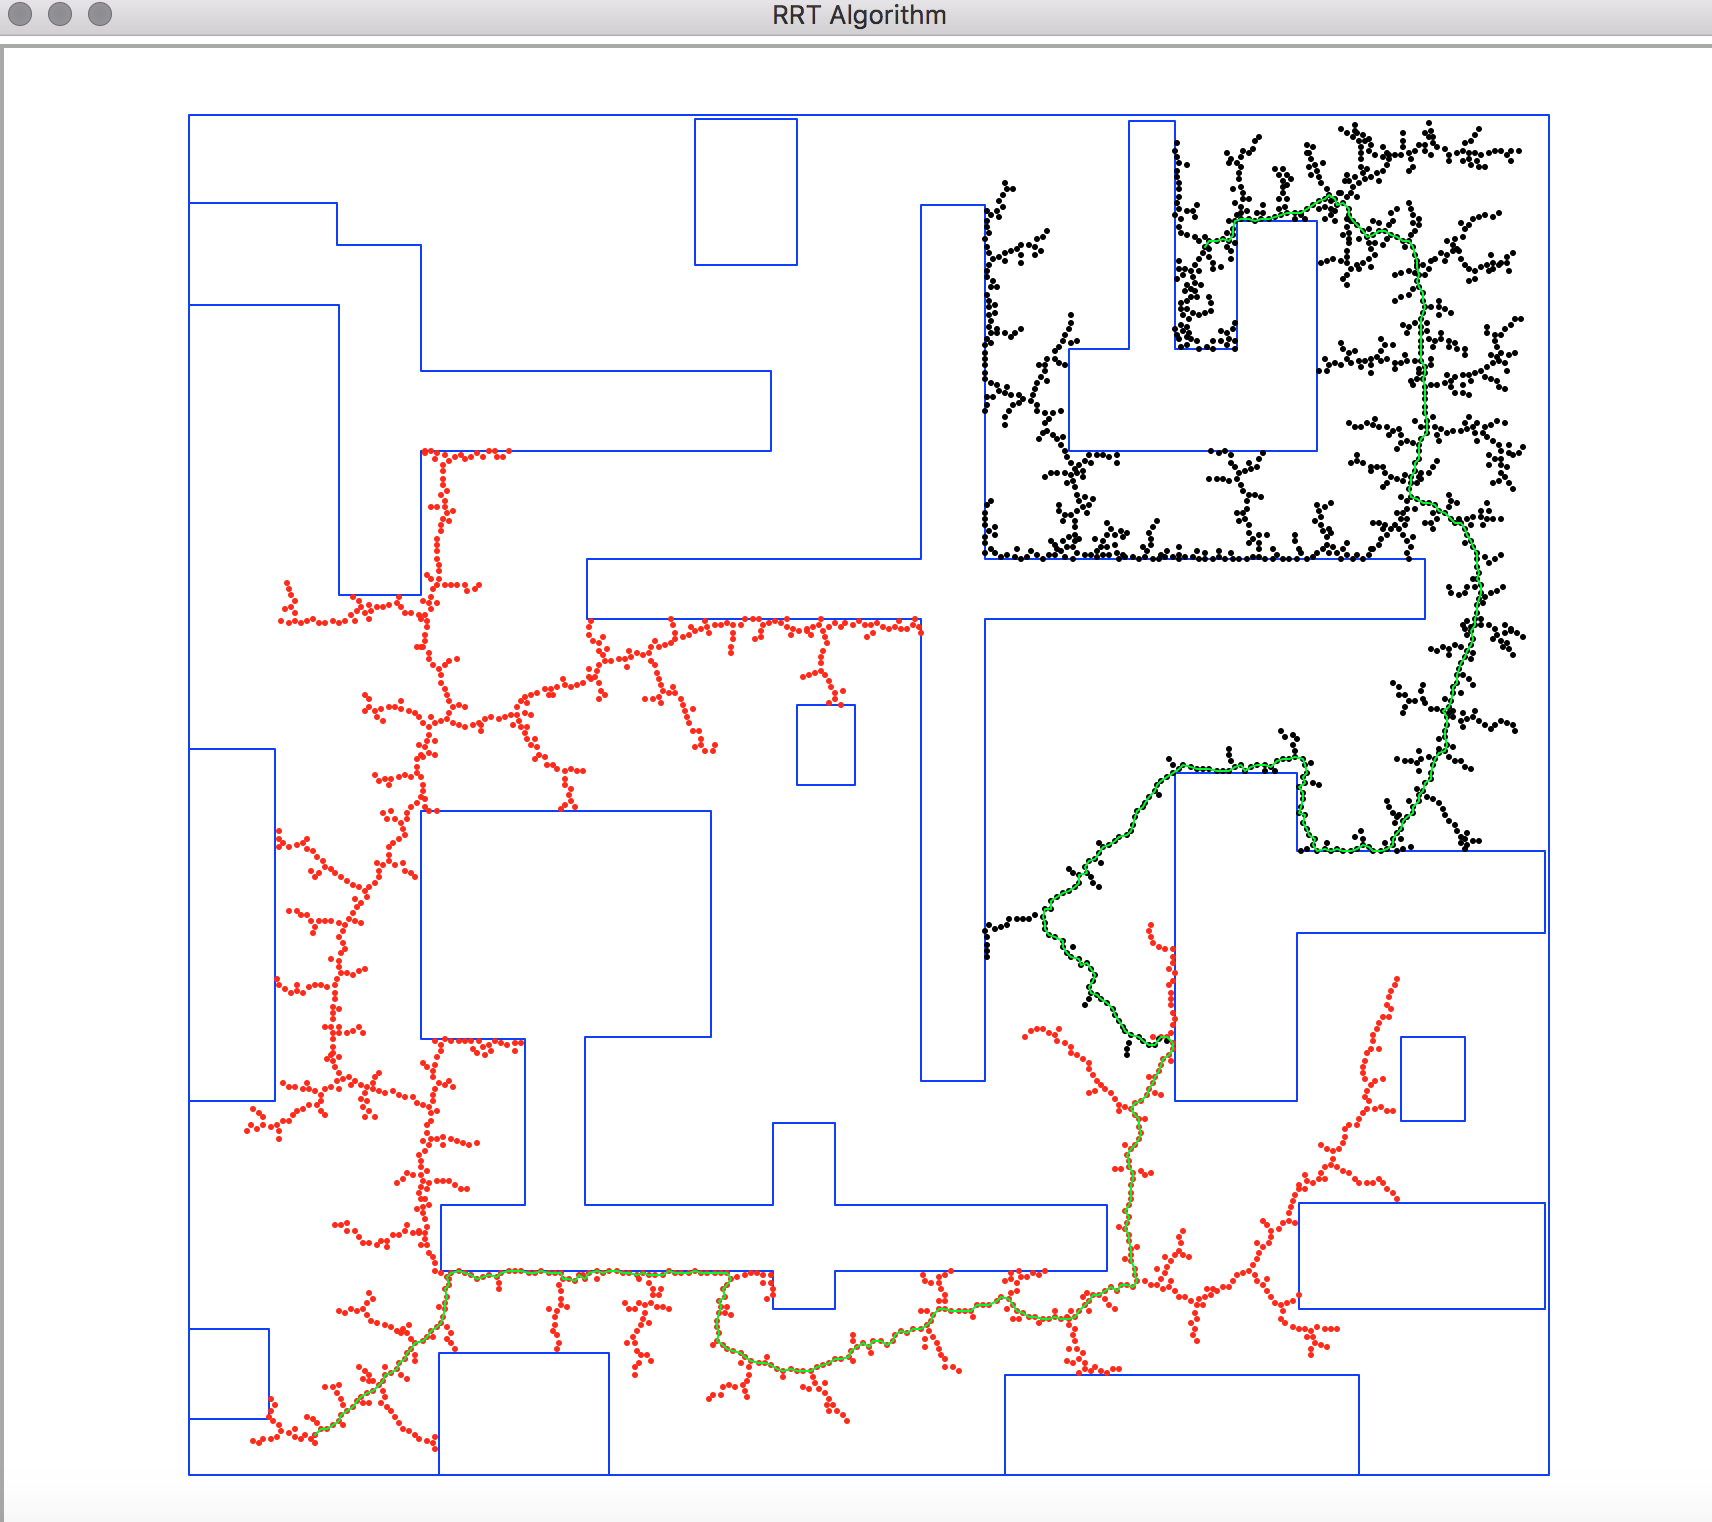
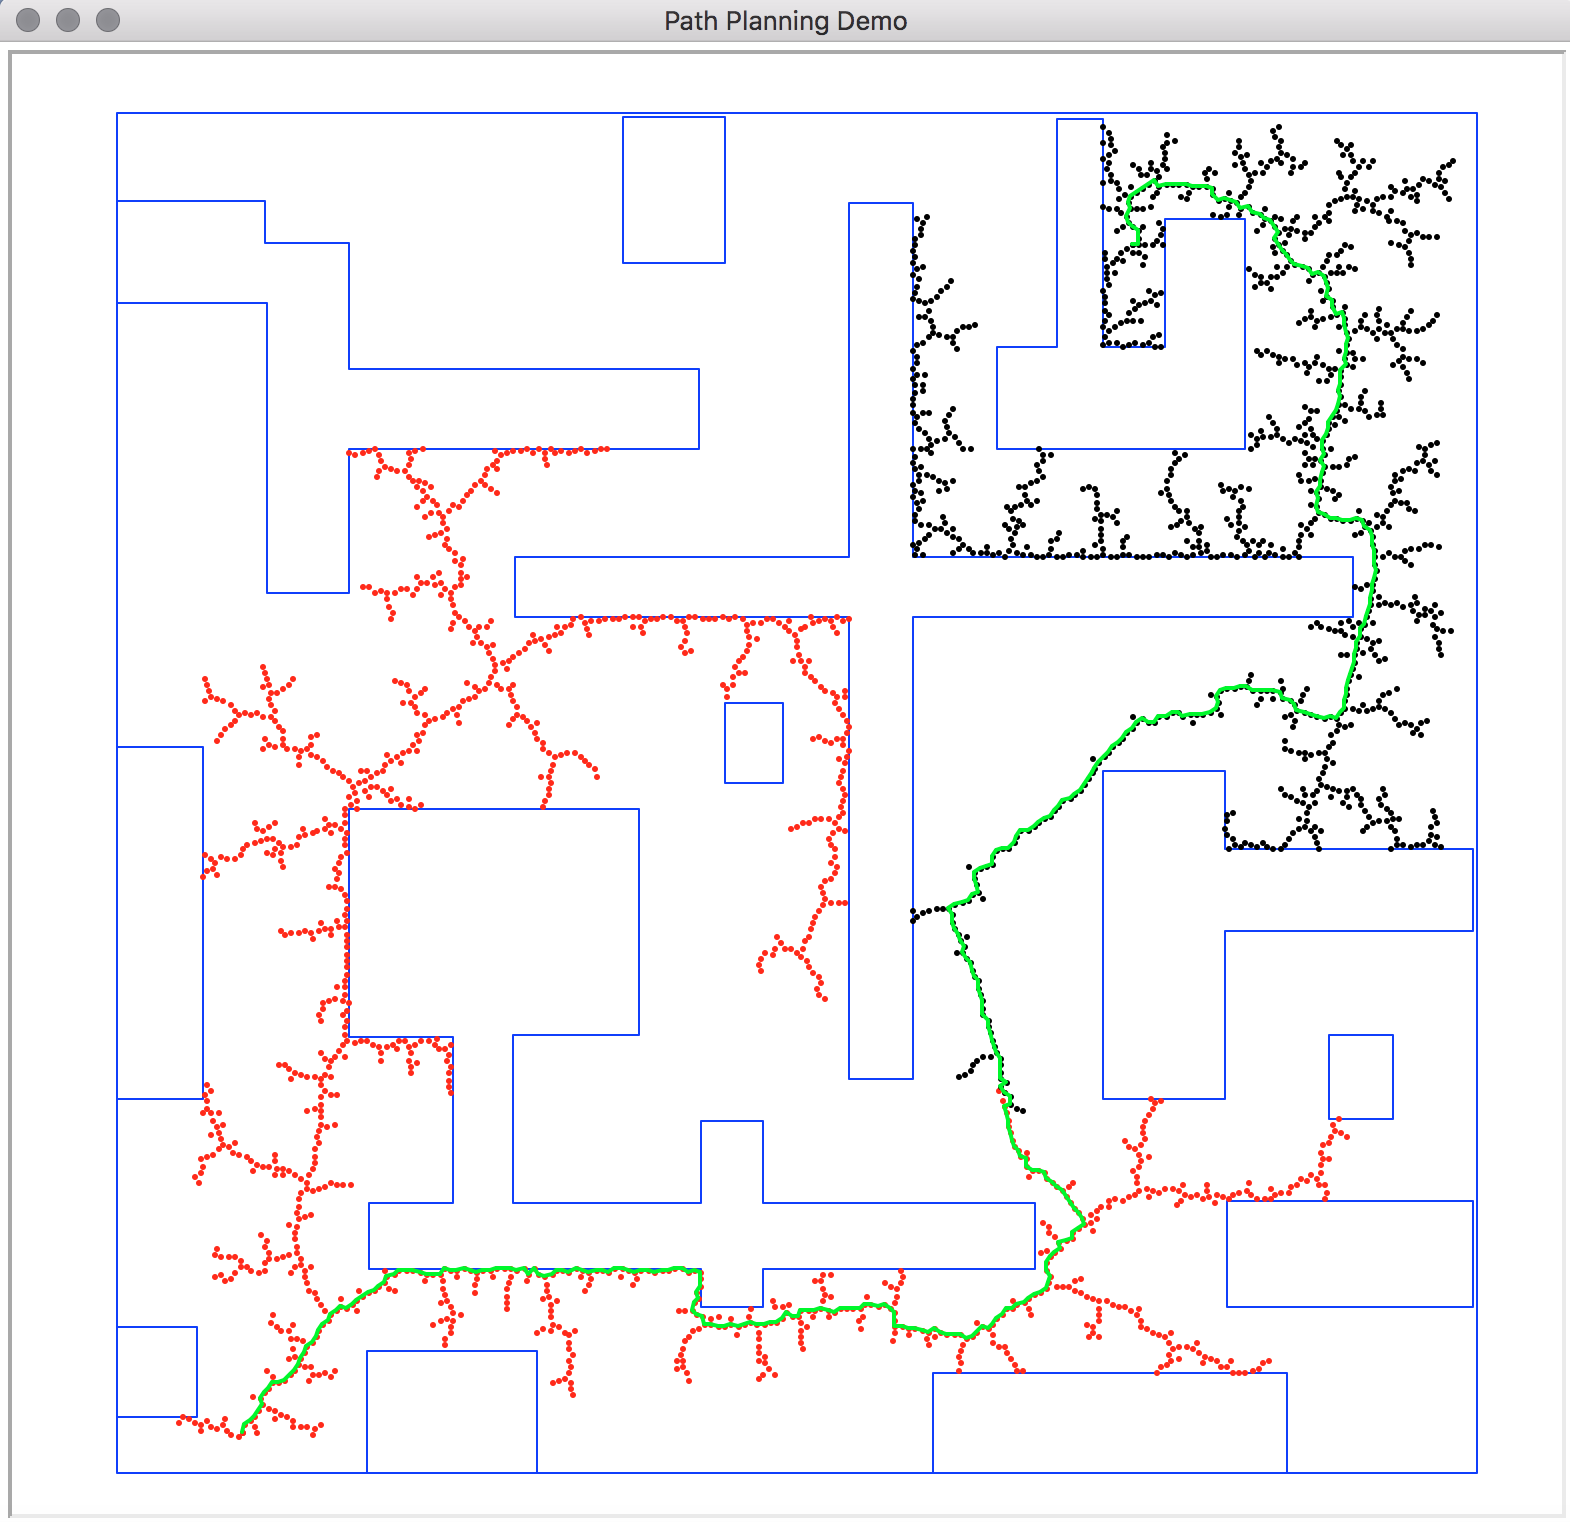
added vgraph algorithm

diff --git a/vgraph.py b/vgraph.py
@@ -1,0 +1,143 @@
+import sys, math
+from common import *
+from drawing import *
+from graph_search import *
+
+EPS = 0.05
+
+class VisibilityGraph:
+
+    def __init__(self, world_size, start, goal, obstacles, robot_size, ref_idx):
+        self.world_size = world_size
+        self.start = start
+        self.goal = goal
+        self.obstacles = obstacles
+        self.robot_size = robot_size
+        self.ref_idx = ref_idx
+        self.init_config = self.get_robot_config(self.start)
+        self.end_config = self.get_robot_config(self.goal)
+        ref_offsets = self.get_ref_offsets()
+        self.grown_obstacles = self.grow_obstacles(ref_offsets)
+        self.obstacle_edges = get_obstacle_edges(self.grown_obstacles)
+
+    def get_robot_config(self, center_point):
+        w, h = self.robot_size[0], self.robot_size[1]
+        cx, cy = center_point[0], center_point[1]
+        t = math.radians(get_orientation(self.start, self.goal))
+        vs = [(cx-h/2, cy-w/2), (cx-h/2, cy+w/2), (cx+h/2, cy+w/2), (cx+h/2, cy-w/2)]
+        # map to origin
+        tmp = map(lambda v: (v[0] - cx, v[1] - cy), vs)
+        # rotate
+        rot = map(lambda v: (v[0]*math.cos(t)-v[1]*math.sin(t), v[0]*math.sin(t)+v[1]*math.cos(t)), tmp)
+        # map back
+        vertices = map(lambda v: (v[0] + cx, v[1] + cy), rot)
+        return vertices
+
+    def get_ref_offsets(self):
+        ref_pt = self.init_config[self.ref_idx]
+        offsets = []
+        for i in range(len(self.init_config)):
+            if i != self.ref_idx:
+                cur_pt = self.init_config[i]
+                # reflect about x-axis
+                new_pt_x = cur_pt[0] + (ref_pt[0] - cur_pt[0]) * 2
+                # reflect about y-axis
+                new_pt_y = cur_pt[1] + (ref_pt[1] - cur_pt[1]) * 2
+                # calculate offset
+                offsets.append((new_pt_x - ref_pt[0], new_pt_y - ref_pt[1]))
+        return offsets
+
+    def grow_obstacles(self, ref_offsets):
+        new_obstacles = []
+        for obstacle in self.obstacles:
+            new_vertices = []
+            for v in obstacle:
+                for offset in ref_offsets:
+                    new_vertices.append((v[0]+offset[0], v[1]+offset[1]))
+                new_vertices.append((v[0], v[1]))
+            new_obstacles.append(new_vertices)
+        
+        # find convex hull of each set of vertices
+        chs = []
+        for points in new_obstacles:
+            points = sorted(points)
+            # build lower hull 
+            lower = []
+            for p in points:
+                while len(lower) >= 2 and not ccw(lower[-2], lower[-1], p):
+                    lower.pop()
+                lower.append(p)
+            # build upper hull
+            upper = []
+            for p in reversed(points):
+                while len(upper) >= 2 and not ccw(upper[-2], upper[-1], p):
+                    upper.pop()
+                upper.append(p)
+            temp_ch = lower[:-1] + upper[:-1]
+            # clean convex hull to find charateristic points
+            for p in temp_ch:
+                for q in temp_ch:
+                    for r in temp_ch:
+                        if p == q or p == r or q == r:
+                            pass
+                        else:
+                            if abs(get_distance(p, r) - (get_distance(p, q) + get_distance(q, r))) < EPS:
+                                if q in temp_ch:
+                                    temp_ch.remove(q)
+            chs.append(temp_ch)
+        return chs
+
+    def get_all_edges(self):
+        all_edges = []
+        for ch1 in self.grown_obstacles:
+            for pt in ch1:
+                all_edges.append((self.init_config[self.ref_idx], pt))
+                all_edges.append((pt, self.end_config[self.ref_idx]))
+            for ch2 in self.grown_obstacles:
+                if ch1 != ch2:
+                    for p1 in ch1:
+                        for p2 in ch2:
+                            all_edges.append((p1, p2))
+        return all_edges
+
+    def get_visible_edges(self):
+        visible_edges = []
+        for edge in self.get_all_edges():
+            to_add = True
+            for obstacle_edge in self.obstacle_edges:
+                if intersect(edge, obstacle_edge):
+                    to_add = False
+                    break
+            if to_add:
+                visible_edges.append(edge)
+        return visible_edges
+
+def main():
+
+    if len(sys.argv) != 5:
+        print "Usage: python vgraph.py map_file robot_width robot_length ref_idx"
+        exit(0)
+
+    map_file = sys.argv[1]
+    robot_size = (float(sys.argv[2]), float(sys.argv[3]))
+    ref_idx = int(sys.argv[4])
+
+    dts = DrawingTools(map_file)
+    world_size, start, goal, obstacles = dts.get_map_info()
+    vgraph = VisibilityGraph(world_size, start, goal, obstacles, robot_size, ref_idx)
+    start_pt, goal_pt = vgraph.init_config[ref_idx], vgraph.end_config[ref_idx]
+    visible_edges = vgraph.get_visible_edges()
+    g = Graph(visible_edges+vgraph.obstacle_edges)
+    path, cost = g.dijkstra(start_pt, goal_pt)
+    print 'Cost: ' + str(cost)
+
+    dts.draw_map()
+    dts.draw_obstacles(vgraph.grown_obstacles, RED)
+    dts.draw_point(start_pt, RED)
+    dts.draw_point(goal_pt, BLACK)
+    dts.draw_edges(visible_edges, PURPLE)
+    dts.draw_path(path, GREEN, PATH_WIDTH)
+    dts.finished_drawing()
+
+if __name__ == "__main__": 
+    main()

diff --git a/rrt.py b/rrt.py
@@ -4,7 +4,7 @@ from common import *
 from graph_search import *
 
 MAX_SAMPLE = 50
-CONNECT_STEP = 30
+CONNECT_STEP = 10
 
 class RRT:
 
@@ -81,15 +81,12 @@ class RRT:
             return new_node, new_edge
         return None, None
 
-    def get_min_distance(self, tree1, tree2):
-        min_dist = get_distance(tree1[0], tree2[0])
-        new_edge = None
-        for n1 in tree1:
-            for n2 in tree2:
-                if not self.intersect_obstacle_edge((n1, n2)) and get_distance(n1, n2) < min_dist:
-                    new_edge = (n1, n2)
-                    min_dist = get_distance(n1, n2)
-        return min_dist, new_edge
+    def connect(self, tree1, tree2):
+        for n1 in tree1[len(tree1)-CONNECT_STEP*2:]:
+            for n2 in tree2[len(tree2)-CONNECT_STEP*2:]:
+                if not self.intersect_obstacle_edge((n1, n2)) and get_distance(n1, n2) <= self.step_size:
+                    return (n1, n2)
+        return None
 
     def generate_trees(self):
 
@@ -132,12 +129,12 @@ class RRT:
             # cannot grow either tree
             if stuck1 and stuck2:
                 print "Stuck..."
-                break
+                return tree1, tree2, None
 
             # connect two trees
             if (i != 0) and (i % CONNECT_STEP == 0):
-                dist, new_edge = self.get_min_distance(tree1, tree2)
-                if new_edge != None and dist < self.step_size:
+                new_edge = self.connect(tree1, tree2)
+                if new_edge != None:
                     edges.append(new_edge)
                     print "trees connnected..."
                     break
@@ -161,14 +158,18 @@ def main():
     world_size, start, goal, obstacles = dts.get_map_info()
     rrt_planner = RRT(world_size, start, goal, obstacles, num_iter, step_size, bias_step, eps)
     tree1, tree2, edges = rrt_planner.generate_trees()
-    g = Graph(edges)
-    path, cost = g.dijkstra(start, goal)
-    print 'Cost: ' + str(cost)
+    if edges:
+        g = Graph(edges)
+        path, cost = g.dijkstra(start, goal)
+        print 'Cost: ' + str(cost)
 
     dts.draw_map()
-    dts.draw_nodes(tree1, DOT_COLOR1)
-    dts.draw_nodes(tree2, DOT_COLOR2)
-    dts.draw_path(path, PATH_COLOR)
+    dts.draw_point(start, RED)
+    dts.draw_point(goal, BLACK)
+    dts.draw_nodes(tree1, RED)
+    dts.draw_nodes(tree2, BLACK)
+    if edges:
+        dts.draw_path(path, GREEN, PATH_WIDTH)
     dts.finished_drawing()
 
 if __name__ == "__main__": 

diff --git a/drawing.py b/drawing.py
@@ -1,10 +1,12 @@
 import turtle
 
-OBSTACLE_COLOR = 'blue'
-DOT_COLOR1 = 'red'
-DOT_COLOR2 = 'black'
-PATH_COLOR = 'green'
+RED = 'red'
+GREEN = 'green'
+BLUE = 'blue'
+BLACK = 'black'
+PURPLE = 'purple'
 RADIUS = 3
+PATH_WIDTH = 2
 
 class DrawingTools:
 
@@ -51,11 +53,8 @@ class DrawingTools:
         return self.world_size, self.start_pos, self.goal_pos, self.obstacles
 
     def draw_map(self):
-        self.draw_boundaries(OBSTACLE_COLOR)
-        for obstacle in self.obstacles:
-            self.draw_polygon(obstacle, OBSTACLE_COLOR)
-        self.draw_point(self.start_pos, DOT_COLOR1)
-        self.draw_point(self.goal_pos, DOT_COLOR2)
+        self.draw_boundaries(BLUE)
+        self.draw_obstacles(self.obstacles, BLUE)
 
     def draw_boundaries(self, color):
         x, y = self.world_size[0], self.world_size[1]
@@ -68,6 +67,10 @@ class DrawingTools:
         self.turtle.goto(0, y)
         self.turtle.goto(0, 0)
         self.turtle.penup()
+
+    def draw_obstacles(self, obstacles, color):
+        for obstacle in obstacles:
+            self.draw_polygon(obstacle, color)
 
     def draw_polygon(self, vertices, color):
         self.turtle.pencolor(color)
@@ -97,8 +100,9 @@ class DrawingTools:
             self.turtle.goto(edge[1])
             self.turtle.penup()
 
-    def draw_path(self, path, color):
+    def draw_path(self, path, color, width=None):
         self.turtle.pencolor(color)
+        self.turtle.width(width)
         self.turtle.penup()
         self.turtle.goto(path[0])
         self.turtle.pendown()

diff --git a/common.py b/common.py
@@ -6,6 +6,12 @@ def get_distance(n1, n2):
 def ccw(a, b, c):
     return (c[1] - a[1]) * (b[0]-a[0]) > (b[1] - a[1]) * (c[0] - a[0])
 
+def get_orientation(v1, v2):
+    dx = float(v2[0] - v1[0])
+    dy = float(v2[1] - v1[1])
+    if dx == 0: return 90
+    return math.degrees(math.atan(dy/dx))
+
 def orientation(a, b, c, d):
     return ccw(a, c, d) != ccw(b, c, d) and ccw(a, b, c) != ccw(a, b, d)
 
